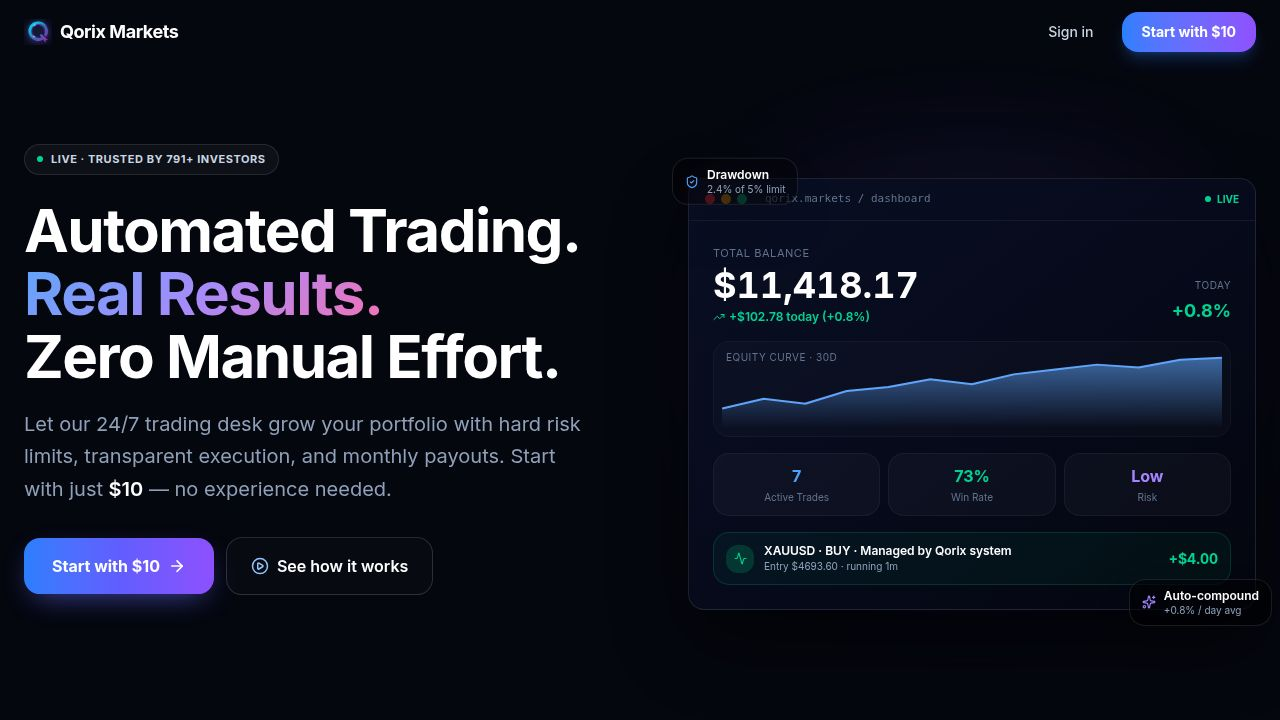
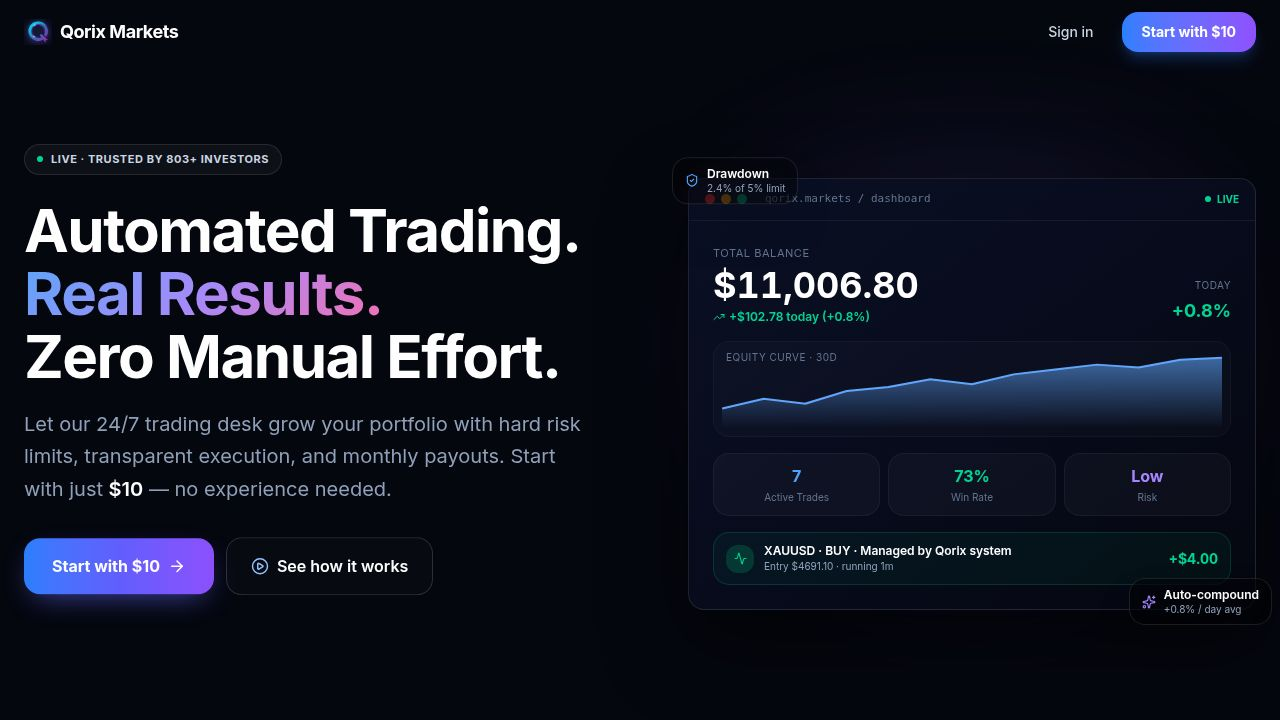
Restructure user position card for better mobile display
Refactors the `growth-panel.tsx` component to improve the layout and visual hierarchy of the "Your Position" card, especially on mobile devices, by adjusting grid columns, font sizes, and introducing an active status badge.

Replit-Commit-Author: Agent
Replit-Commit-Session-Id: 0f1c994e-8fa6-49b3-97b6-d37cb96638a4
Replit-Commit-Checkpoint-Type: full_checkpoint
Replit-Commit-Event-Id: 9179522d-4f75-42ef-8840-53e693bb08b8
Replit-Commit-Screenshot-Url: https://storage.googleapis.com/screenshot-production-us-central1/29fff743-8f1e-46b6-bb7f-badc0e257804/0f1c994e-8fa6-49b3-97b6-d37cb96638a4/mN3kGzT
Replit-Helium-Checkpoint-Created: true

diff --git a/artifacts/qorix-markets/src/components/growth-panel.tsx b/artifacts/qorix-markets/src/components/growth-panel.tsx
@@ -430,63 +430,80 @@ function WeeklyLeaderboard({ userId }: { userId: number }) {
         animate={{ opacity: 1, y: 0 }}
         transition={{ duration: 0.4, delay: 0.05 }}
         className={cn(
-          "relative mb-3 overflow-hidden rounded-2xl border px-4 py-3.5",
+          "relative mb-3 overflow-hidden rounded-2xl border px-3.5 py-3 sm:px-4 sm:py-3.5",
           isActive
             ? "border-blue-400/30 bg-[linear-gradient(to_right,rgba(59,130,246,0.18),rgba(99,102,241,0.06)_60%,transparent)]"
             : "border-rose-400/30 bg-[linear-gradient(to_right,rgba(244,63,94,0.18),rgba(244,63,94,0.04)_60%,transparent)]",
         )}
       >
-        <div className="text-[10.5px] font-semibold uppercase tracking-wider text-white/60">
-          Your Position
+        <div className="flex items-center justify-between gap-2">
+          <div className="text-[10px] sm:text-[10.5px] font-semibold uppercase tracking-wider text-white/60">
+            Your Position
+          </div>
+          <div className={cn(
+            "text-[10px] font-bold uppercase tracking-wider px-1.5 py-0.5 rounded-md border",
+            isActive
+              ? "text-blue-300 border-blue-400/30 bg-blue-500/10"
+              : "text-rose-300 border-rose-400/30 bg-rose-500/10",
+          )}>
+            {isActive ? "Active" : "Not ranked"}
+          </div>
         </div>
-        <div className="mt-1.5 grid grid-cols-3 gap-3">
-          <div>
-            <div className="text-[10px] uppercase tracking-wider text-white/45">Rank</div>
+
+        {/* Mobile: 2-col grid (Rank hero left, You vs Top #1 stacked right). Desktop: 3-col */}
+        <div className="mt-2 grid grid-cols-[auto_1fr] sm:grid-cols-3 gap-x-4 sm:gap-3 gap-y-2 items-center sm:items-start">
+          {/* Rank — hero on mobile, column on desktop */}
+          <div className="row-span-2 sm:row-span-1 pr-3 sm:pr-0 border-r sm:border-r-0 border-white/8">
+            <div className="text-[9px] sm:text-[10px] uppercase tracking-wider text-white/45">Rank</div>
             <div className={cn(
-              "text-[19px] font-black tabular-nums leading-none mt-0.5",
+              "text-[22px] sm:text-[19px] font-black tabular-nums leading-none mt-0.5 whitespace-nowrap",
               isActive ? "text-blue-300" : "text-rose-300",
             )}>
-              {data?.myRank ? `#${data.myRank}` : "#—"}
+              {data?.myRank ? `#${data.myRank.toLocaleString()}` : "#—"}
             </div>
           </div>
-          <div>
-            <div className="text-[10px] uppercase tracking-wider text-white/45">Your profit</div>
+
+          {/* You vs Top #1 — stacked rows on mobile, separate columns on desktop */}
+          <div className="flex items-baseline justify-between gap-2 sm:block min-w-0">
+            <div className="text-[9px] sm:text-[10px] uppercase tracking-wider text-white/45 whitespace-nowrap">You</div>
             {myProfit > 0 ? (
               <CountUp
                 value={myProfit}
                 prefix="+$"
-                className="text-[19px] font-black tabular-nums leading-none mt-0.5 text-emerald-400 inline-block"
+                className="text-[15px] sm:text-[19px] font-black tabular-nums leading-none sm:mt-0.5 text-emerald-400 inline-block whitespace-nowrap"
               />
             ) : (
-              <div className="text-[19px] font-black tabular-nums leading-none mt-0.5 text-rose-300">
+              <div className="text-[15px] sm:text-[19px] font-black tabular-nums leading-none sm:mt-0.5 text-rose-300/90">
                 $0
               </div>
             )}
           </div>
-          <div>
-            <div className="text-[10px] uppercase tracking-wider text-yellow-300/70">Top #1 profit</div>
+
+          <div className="flex items-baseline justify-between gap-2 sm:block min-w-0">
+            <div className="text-[9px] sm:text-[10px] uppercase tracking-wider text-yellow-300/80 whitespace-nowrap">Top #1</div>
             {top1Profit > 0 ? (
               <CountUp
                 value={top1Profit}
                 prefix="$"
-                className="text-[19px] font-black tabular-nums leading-none mt-0.5 bg-gradient-to-r from-yellow-300 to-amber-400 bg-clip-text text-transparent inline-block"
+                className="text-[15px] sm:text-[19px] font-black tabular-nums leading-none sm:mt-0.5 bg-gradient-to-r from-yellow-300 to-amber-400 bg-clip-text text-transparent inline-block whitespace-nowrap"
               />
             ) : (
-              <div className="text-[19px] font-black tabular-nums leading-none mt-0.5 text-white/40">
+              <div className="text-[15px] sm:text-[19px] font-black tabular-nums leading-none sm:mt-0.5 text-white/40">
                 —
               </div>
             )}
           </div>
         </div>
+
         {!isActive && missingAmount > 0 && (
           <div className="mt-2.5 pt-2.5 border-t border-rose-400/20 flex items-center gap-2">
             <Flame className="w-3.5 h-3.5 text-rose-400 shrink-0" />
-            <div className="text-[12.5px] font-bold text-rose-200 leading-tight">
+            <div className="text-[12px] sm:text-[12.5px] font-bold text-rose-200 leading-tight min-w-0">
               You're missing{" "}
-              <span className="text-rose-300">
+              <span className="text-rose-300 whitespace-nowrap">
                 ${missingAmount.toLocaleString(undefined, { minimumFractionDigits: 2, maximumFractionDigits: 2 })}
               </span>{" "}
-              <span className="text-rose-200/80 font-semibold">opportunity this week</span>
+              <span className="text-rose-200/80 font-semibold">this week</span>
             </div>
           </div>
         )}